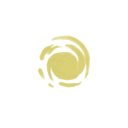
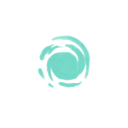
visual fixes

Changed region(s): [[0.2812, 0.25, 0.7188, 0.6875]]

diff --git a/src/main/java/TheTemplar/TemplarMod.java b/src/main/java/TheTemplar/TemplarMod.java
@@ -77,9 +77,9 @@ public class TemplarMod implements
     public static final Color TEMPLAR_BLUE = CardHelper.getColor(212f, 241f, 244f);
 
     // Potion Colors in RGB
-    public static final Color POTION_LIQUID = CardHelper.getColor(24f, 154f, 180f);  // blue grotto
-    public static final Color POTION_HYBRID = CardHelper.getColor(117f, 230f, 218f); // blue green
-    public static final Color POTION_SPOTS = CardHelper.getColor(212f, 241f, 244f);  // baby blue
+    public static final Color POTION_DARK = CardHelper.getColor(24f, 154f, 180f);  // blue grotto
+    public static final Color POTION_MID = CardHelper.getColor(117f, 230f, 218f); // blue green
+    public static final Color POTION_LIGHT = CardHelper.getColor(212f, 241f, 244f);  // baby blue
 
     // Card backgrounds - The actual rectangular card.
     private static final String ATTACK_TEMPLAR = "TheTemplarResources/images/512/bg_attack_default_gray.png";
@@ -305,9 +305,9 @@ public class TemplarMod implements
     public void receiveEditPotions() {
         logger.info("Beginning to edit potions");
 
-        BaseMod.addPotion(PotionOfLore.class, POTION_LIQUID, POTION_HYBRID, POTION_SPOTS, PotionOfLore.POTION_ID, TheTemplar.Enums.THE_TEMPLAR);
-        BaseMod.addPotion(StalwartFlask.class, POTION_LIQUID, POTION_HYBRID, POTION_SPOTS, StalwartFlask.POTION_ID, TheTemplar.Enums.THE_TEMPLAR);
-        BaseMod.addPotion(ExaltedEssence.class, POTION_LIQUID, POTION_HYBRID, POTION_SPOTS, ExaltedEssence.POTION_ID, TheTemplar.Enums.THE_TEMPLAR);
+        BaseMod.addPotion(PotionOfLore.class, POTION_LIGHT, POTION_LIGHT, POTION_LIGHT, PotionOfLore.POTION_ID, TheTemplar.Enums.THE_TEMPLAR);
+        BaseMod.addPotion(StalwartFlask.class, POTION_MID, POTION_MID, POTION_MID, StalwartFlask.POTION_ID, TheTemplar.Enums.THE_TEMPLAR);
+        BaseMod.addPotion(ExaltedEssence.class, POTION_DARK, POTION_MID, POTION_LIGHT, ExaltedEssence.POTION_ID, TheTemplar.Enums.THE_TEMPLAR);
 
         logger.info("Done editing potions");
     }
